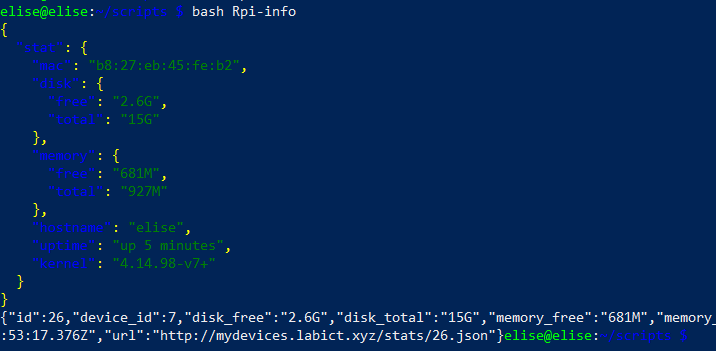
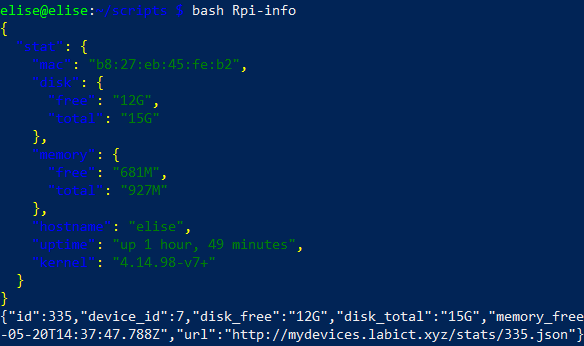
changed freeDisk code and images

diff --git a/BashShellScripting.md b/BashShellScripting.md
@@ -70,7 +70,7 @@ mac=$(cat /sys/class/net/eth0/address)
 uptime=$(uptime -p)
 hostname=$(cat /proc/sys/kernel/hostname)
 kernel=$(uname -r)
-freeDisk=$(df / -h | grep /dev/root | awk ' {print $3} ')
+freeDisk=$(df / -h | grep /dev/root | awk ' {print $4} ')
 totalDisk=$(df / -h | grep /dev/root | awk ' {print $2} ')
 freeMem=$(free -m -h| grep Mem | awk ' {print $4} ')
 totalMem=$(free -m -h| grep Mem | awk ' {print $2} ')
@@ -87,7 +87,8 @@ Public API can be found [here](http://mydevices.labict.xyz/stats)
 ![info](./img/info.PNG) 
 ![stats](./img/stats.PNG)
 
-![crontab](./img/crontab.PNG) 
 
 Some information about Cronjobs:
 ![cron](./img/Cron.PNG) 
+![crontab](./img/crontab.PNG) 
+
